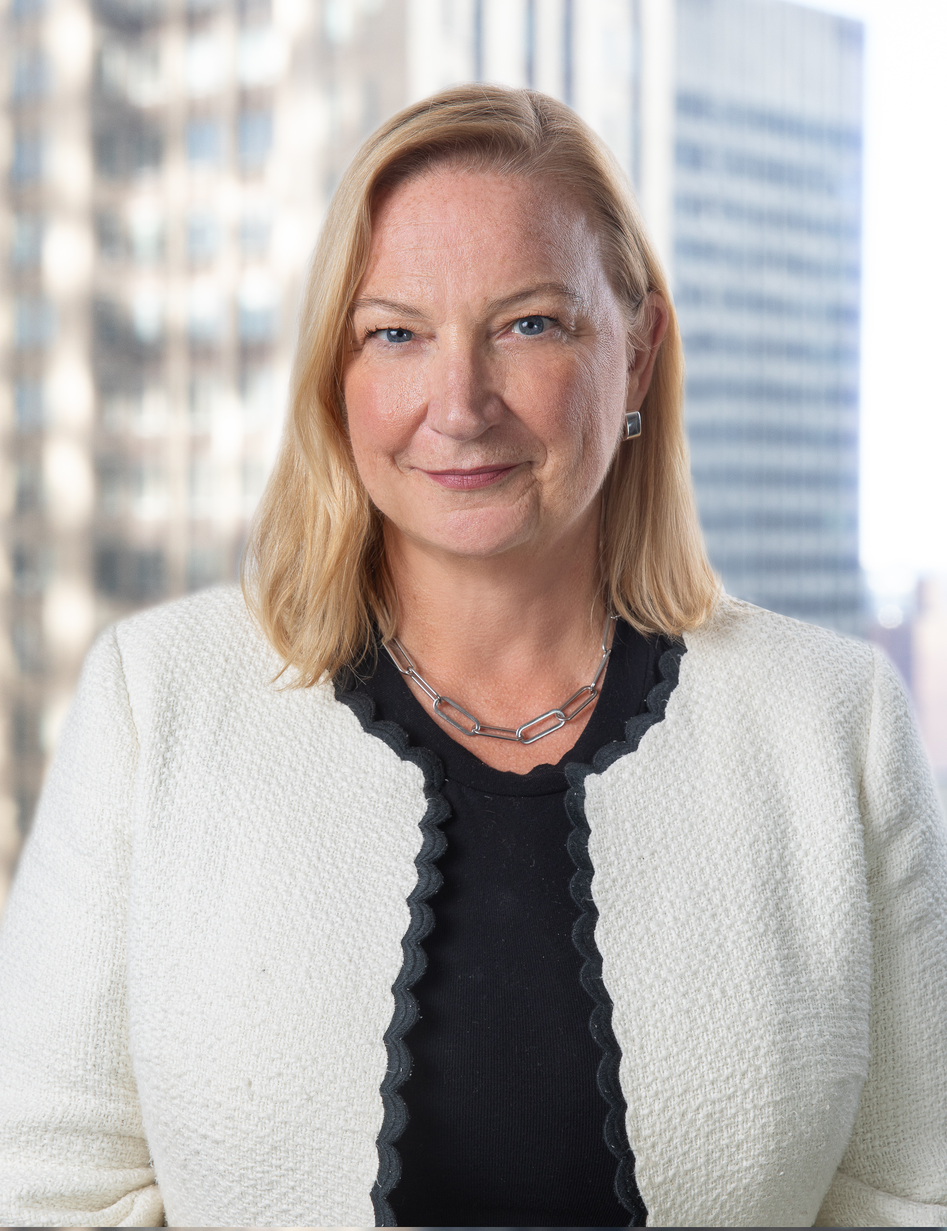
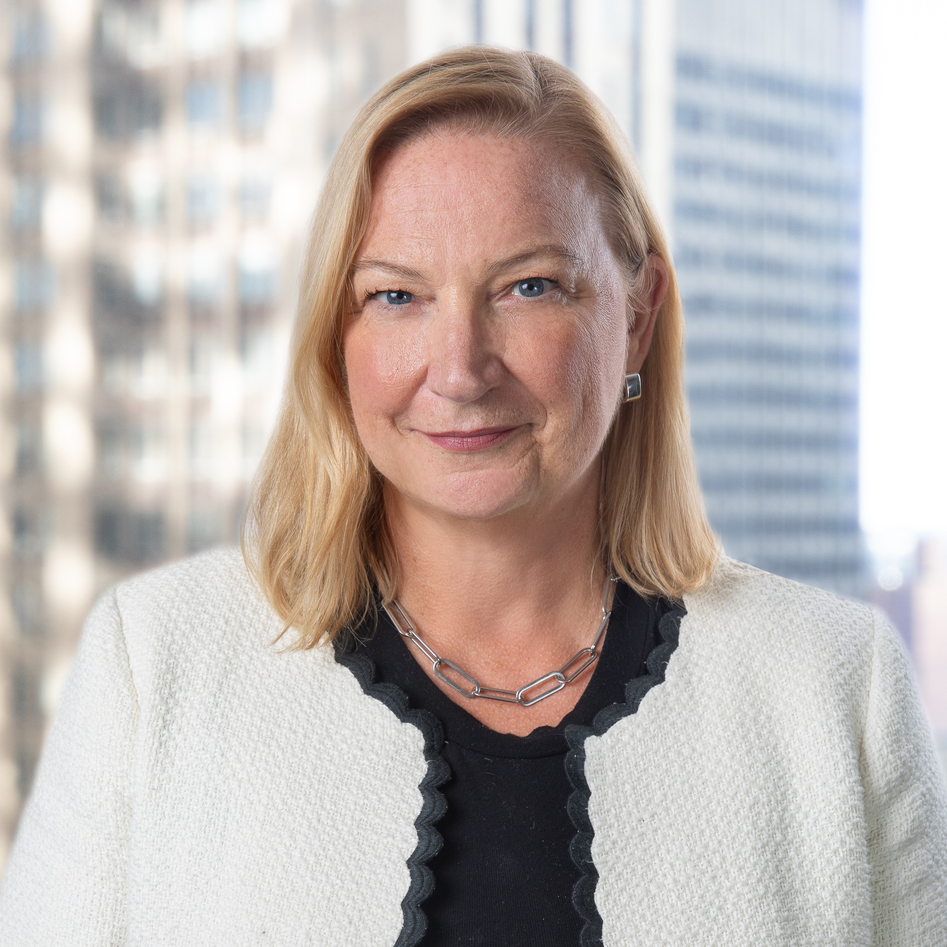
Imageupdate

diff --git a/emails/TwoImgOnly.tsx b/emails/TwoImgOnly.tsx
@@ -47,8 +47,52 @@ export default function TwoImgOnly({
             display: "inline-flex",
           }}
         >
-          <img style={{ width: 220, height: 220 }} src={Img1} />
-          <img style={{ width: 220, height: 220 }} src={Img2} />
+          {Img1 ? (
+            <div
+              style={{
+                width: 220,
+                height: 220,
+                overflow: "hidden",
+                display: "block",
+              }}
+            >
+              <img
+                src={Img1}
+                alt=""
+                style={{
+                  width: "100%",
+                  height: "100%",
+                  objectFit: "cover",
+                  display: "block",
+                }}
+              />
+            </div>
+          ) : (
+            <div style={{ width: 220, height: 220 }} />
+          )}
+          {Img2 ? (
+            <div
+              style={{
+                width: 220,
+                height: 220,
+                overflow: "hidden",
+                display: "block",
+              }}
+            >
+              <img
+                src={Img2}
+                alt=""
+                style={{
+                  width: "100%",
+                  height: "100%",
+                  objectFit: "cover",
+                  display: "block",
+                }}
+              />
+            </div>
+          ) : (
+            <div style={{ width: 220, height: 220 }} />
+          )}
         </div>
         <div
           style={{

diff --git a/emails/OneImgCentered.tsx b/emails/OneImgCentered.tsx
@@ -49,7 +49,29 @@ export default function OneImgCentered({
             display: "inline-flex",
           }}
         >
-          <img style={{ width: imageWidth, height: imageHeight }} src={image} />
+          {image ? (
+            <div
+              style={{
+                width: imageWidth,
+                height: imageHeight,
+                overflow: "hidden",
+                display: "block",
+              }}
+            >
+              <img
+                src={image}
+                alt=""
+                style={{
+                  width: "100%",
+                  height: "100%",
+                  objectFit: "cover",
+                  display: "block",
+                }}
+              />
+            </div>
+          ) : (
+            <div style={{ width: imageWidth, height: imageHeight }} />
+          )}
         </div>
 
         {paragraphs.length > 0 && (

diff --git a/emails/q4.tsx b/emails/q4.tsx
@@ -80,8 +80,8 @@ export default function Q4() {
       />
       <SectionDivider sectionHeading="Team Updates" />
       <TwoImgOnly
-        Img1="https://github.com/Elkhorn-Marketing-Group/Pioneer-News-Letters/blob/main/Q4-Photos/TeamPhoto.png?raw=true"
-        Img2=""
+        Img1="https://github.com/Elkhorn-Marketing-Group/Pioneer-News-Letters/blob/main/Q4-Photos/JonathanClay-headshot.jpg?raw=true"
+        Img2="https://github.com/Elkhorn-Marketing-Group/Pioneer-News-Letters/blob/main/Q4-Photos/DasiyCrystal-headshot.jpg?raw=true"
         paragraphs={[
           {
             text: "We’re excited to announce the continued growth of our team at Pioneer Financial with the addition of several talented professionals who bring a wealth of experience and dedication to our clients and firm.",
